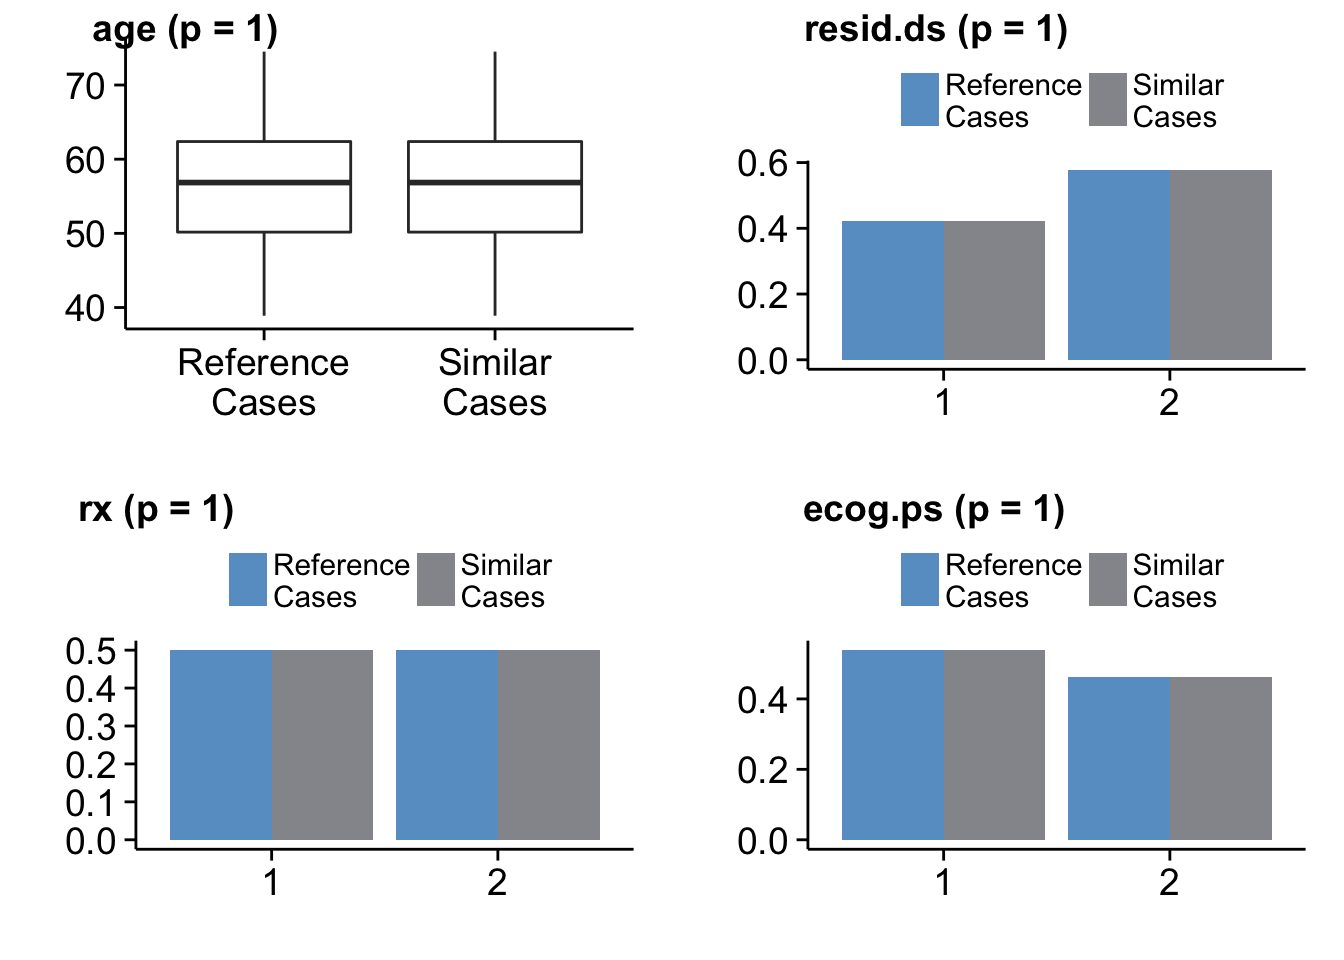
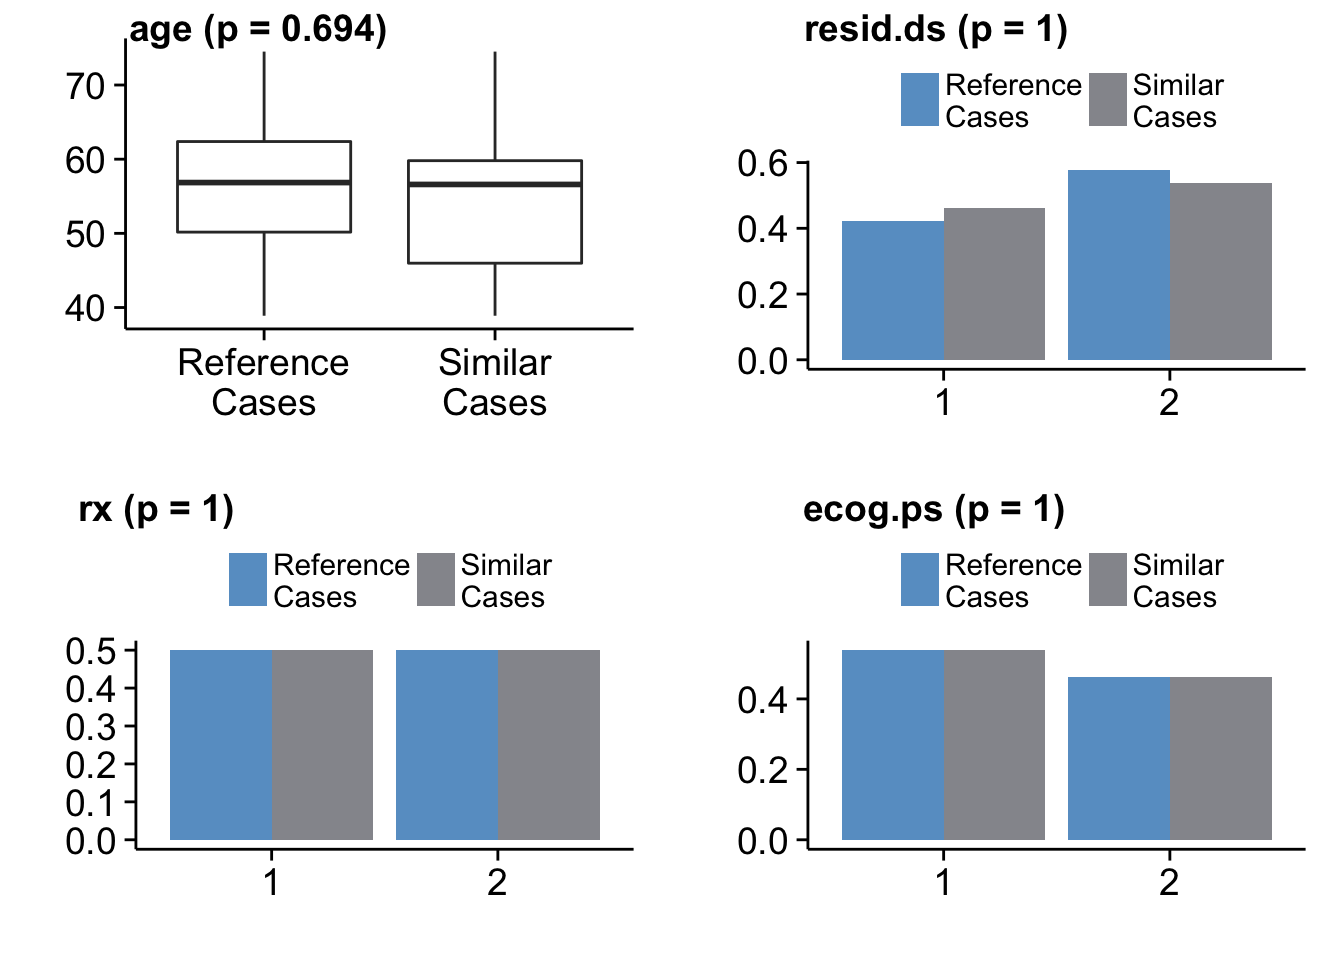
make all

diff --git a/example-cox-model.html b/example-cox-model.html
@@ -101,7 +101,7 @@ img {
                           <li><a href="manifold_learning.html">Manifold Learning</a></li>
                           <li><a href="Quasi-Randomization.html">Quasi-Randomization</a></li>
                           <li><a href="Shared-Decision.html">Shared-Decison Making</a></li>
-                          <li><a href="literatur.html">Literature</a></li>
+                          <li><a href="about.html">About</a></li>
                                 </ul>
                                 <ul class="nav navbar-nav navbar-right">
                                   <li><a href="https://github.com/sipemu/case-based-reasoning" title="View Source on Github"><i class="fa fa-github fa-lg"></i></a></li>
@@ -176,7 +176,7 @@ df &lt;-<span class="st"> </span><span class="kw">rbind</span>(verum, simCases)<
 <h3><span class="header-section-number">1.2.1</span> Validate</h3>
 <p>You may want to check the distibution of the <code>learnVars</code> variables of the verum and similar cases data set:</p>
 <pre class="sourceCode r"><code class="sourceCode r">pp &lt;-<span class="st"> </span>sc$<span class="kw">validate</span>()</code></pre>
-<pre><code>## Two-sample Wilcoxon test for variable: age; p = 1
+<pre><code>## Two-sample Wilcoxon test for variable: age; p = 0.694
 ## Chi-Square test for variable: resid.ds; p = 1
 ## Chi-Square test for variable: rx; p = 1
 ## Chi-Square test for variable: ecog.ps; p = 1</code></pre>

diff --git a/index.html b/index.html
@@ -101,7 +101,7 @@ img {
                           <li><a href="manifold_learning.html">Manifold Learning</a></li>
                           <li><a href="Quasi-Randomization.html">Quasi-Randomization</a></li>
                           <li><a href="Shared-Decision.html">Shared-Decison Making</a></li>
-                          <li><a href="literatur.html">Literature</a></li>
+                          <li><a href="about.html">About</a></li>
                                 </ul>
                                 <ul class="nav navbar-nav navbar-right">
                                   <li><a href="https://github.com/sipemu/case-based-reasoning" title="View Source on Github"><i class="fa fa-github fa-lg"></i></a></li>

diff --git a/Classes.html b/Classes.html
@@ -84,7 +84,7 @@ img {
                           <li><a href="manifold_learning.html">Manifold Learning</a></li>
                           <li><a href="Quasi-Randomization.html">Quasi-Randomization</a></li>
                           <li><a href="Shared-Decision.html">Shared-Decison Making</a></li>
-                          <li><a href="literatur.html">Literature</a></li>
+                          <li><a href="about.html">About</a></li>
                                 </ul>
                                 <ul class="nav navbar-nav navbar-right">
                                   <li><a href="https://github.com/sipemu/case-based-reasoning" title="View Source on Github"><i class="fa fa-github fa-lg"></i></a></li>

diff --git a/Quasi-Randomization.html b/Quasi-Randomization.html
@@ -74,7 +74,7 @@ img {
                           <li><a href="manifold_learning.html">Manifold Learning</a></li>
                           <li><a href="Quasi-Randomization.html">Quasi-Randomization</a></li>
                           <li><a href="Shared-Decision.html">Shared-Decison Making</a></li>
-                          <li><a href="literatur.html">Literature</a></li>
+                          <li><a href="about.html">About</a></li>
                                 </ul>
                                 <ul class="nav navbar-nav navbar-right">
                                   <li><a href="https://github.com/sipemu/case-based-reasoning" title="View Source on Github"><i class="fa fa-github fa-lg"></i></a></li>

diff --git a/Shared-Decision.html b/Shared-Decision.html
@@ -74,7 +74,7 @@ img {
                           <li><a href="manifold_learning.html">Manifold Learning</a></li>
                           <li><a href="Quasi-Randomization.html">Quasi-Randomization</a></li>
                           <li><a href="Shared-Decision.html">Shared-Decison Making</a></li>
-                          <li><a href="literatur.html">Literature</a></li>
+                          <li><a href="about.html">About</a></li>
                                 </ul>
                                 <ul class="nav navbar-nav navbar-right">
                                   <li><a href="https://github.com/sipemu/case-based-reasoning" title="View Source on Github"><i class="fa fa-github fa-lg"></i></a></li>

diff --git a/manifold-learning.html b/manifold-learning.html
@@ -74,7 +74,7 @@ img {
                           <li><a href="manifold_learning.html">Manifold Learning</a></li>
                           <li><a href="Quasi-Randomization.html">Quasi-Randomization</a></li>
                           <li><a href="Shared-Decision.html">Shared-Decison Making</a></li>
-                          <li><a href="literatur.html">Literature</a></li>
+                          <li><a href="about.html">About</a></li>
                                 </ul>
                                 <ul class="nav navbar-nav navbar-right">
                                   <li><a href="https://github.com/sipemu/case-based-reasoning" title="View Source on Github"><i class="fa fa-github fa-lg"></i></a></li>
